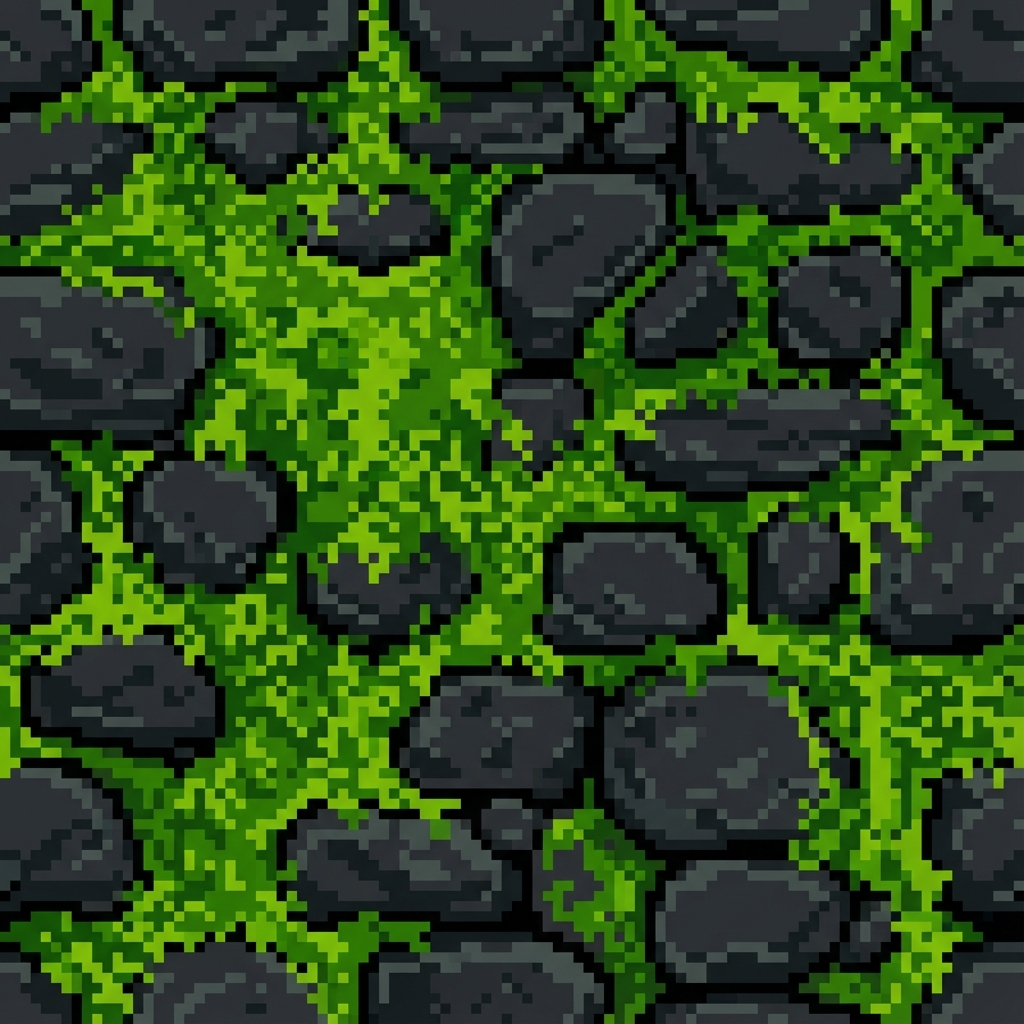
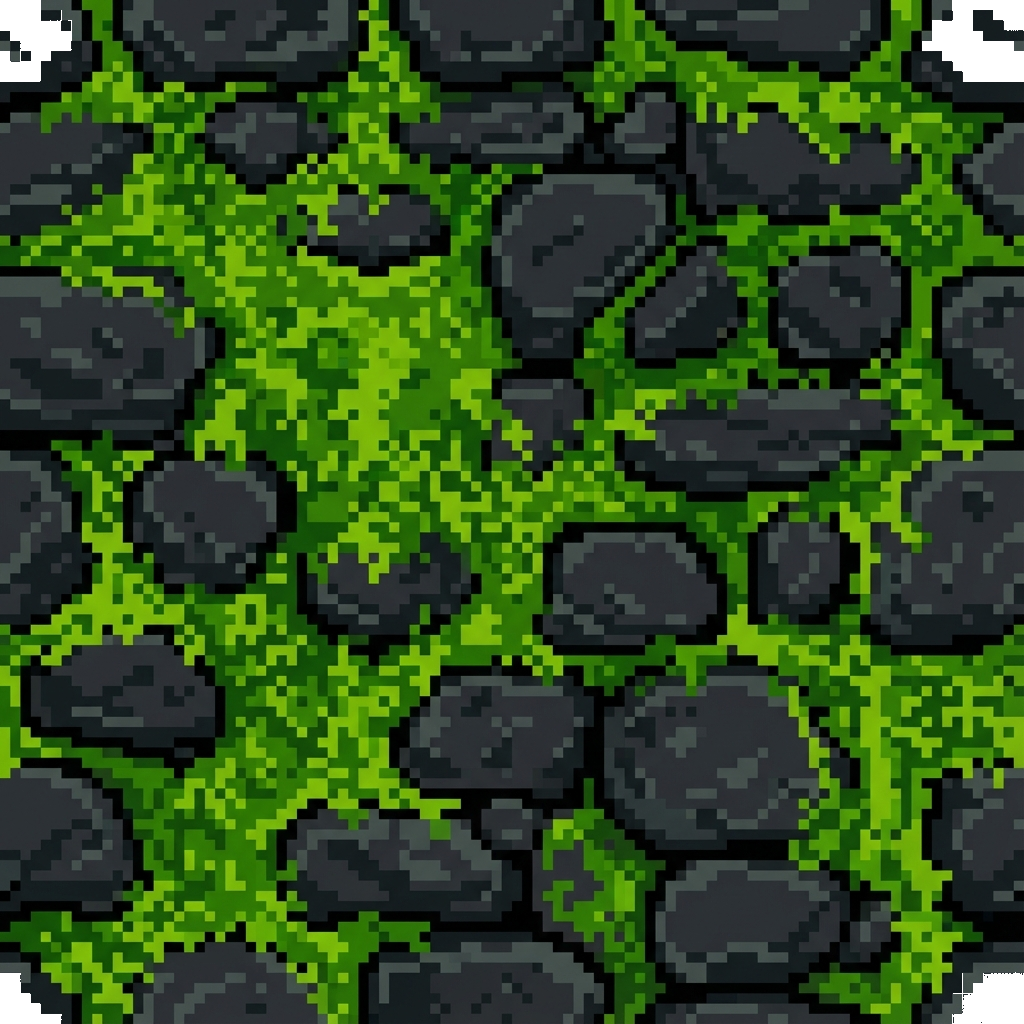
Asset Fix: Removed background colors from sprites using python script

diff --git a/remove_bg_smart.py b/remove_bg_smart.py
@@ -1,0 +1,94 @@
+from PIL import Image
+import collections
+
+def smart_remove_bg(img_path, tolerance=40):
+    try:
+        img = Image.open(img_path).convert("RGBA")
+        width, height = img.size
+        pixels = img.load()
+        
+        # Collect border pixels
+        border_colors = []
+        border_coords = []
+        
+        # Top & Bottom
+        for x in range(width):
+            border_coords.append((x, 0))
+            border_coords.append((x, height-1))
+        # Left & Right
+        for y in range(1, height-1):
+            border_coords.append((0, y))
+            border_coords.append((width-1, y))
+            
+        for x, y in border_coords:
+            c = pixels[x, y]
+            if c[3] > 0: # Only opaque
+                border_colors.append(c)
+
+        if not border_colors:
+            print(f"Skipping {img_path}: Border is fully transparent.")
+            return
+
+        # Find most common color
+        # Simplify color to ignore minor noise for counting
+        quantized_colors = [tuple(c[:3]) for c in border_colors]
+        if not quantized_colors: return
+        
+        most_common_rgb, count = collections.Counter(quantized_colors).most_common(1)[0]
+        
+        # If this color makes up a significant portion of the border (e.g. > 10%)
+        if count < len(border_coords) * 0.1:
+            print(f"Skipping {img_path}: No dominant background color found.")
+            return
+
+        print(f"Removing dominant bg color {most_common_rgb} from {img_path}...")
+        
+        # Flood Fill
+        queue = []
+        visited = set()
+        
+        # Initialize queue with all border pixels matching target color
+        for x, y in border_coords:
+            c = pixels[x, y]
+            if c[3] > 0:
+                dist = sum(abs(c[i] - most_common_rgb[i]) for i in range(3))
+                if dist <= tolerance:
+                    queue.append((x, y))
+                    visited.add((x, y))
+        
+        if not queue:
+            return
+
+        while queue:
+            cx, cy = queue.pop(0)
+            
+            # Remove
+            pixels[cx, cy] = (0, 0, 0, 0)
+            
+            # Check neighbors
+            for dx, dy in [(-1, 0), (1, 0), (0, -1), (0, 1)]:
+                nx, ny = cx + dx, cy + dy
+                if 0 <= nx < width and 0 <= ny < height:
+                    if (nx, ny) not in visited:
+                        nc = pixels[nx, ny]
+                        if nc[3] > 0:
+                            dist = sum(abs(nc[i] - most_common_rgb[i]) for i in range(3))
+                            if dist <= tolerance:
+                                visited.add((nx, ny))
+                                queue.append((nx, ny))
+        
+        img.save(img_path)
+        print(f"Fixed {img_path}")
+
+    except Exception as e:
+        print(f"Error on {img_path}: {e}")
+
+assets = [
+    'public/assets/player.png',
+    'public/assets/monster.png',
+    'public/assets/chest.png',
+    'public/assets/wall_top.png'
+]
+
+for asset in assets:
+    smart_remove_bg(asset)
